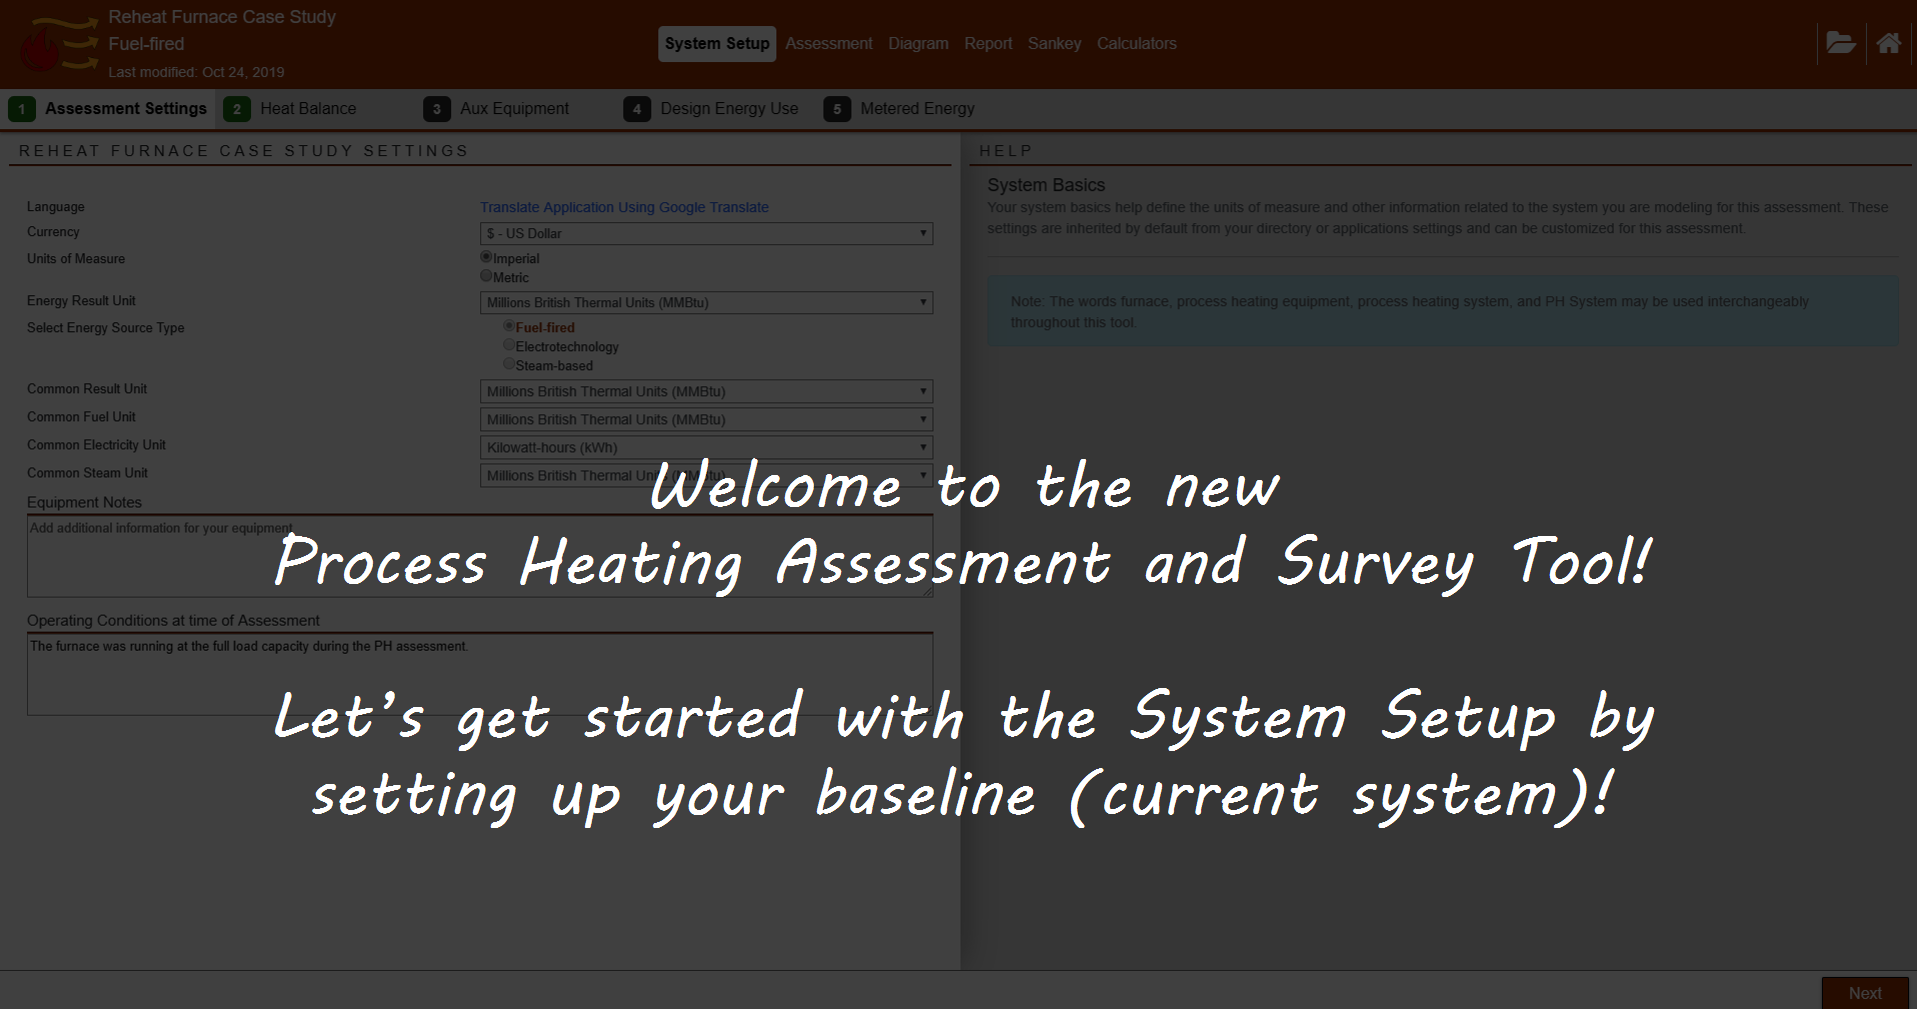
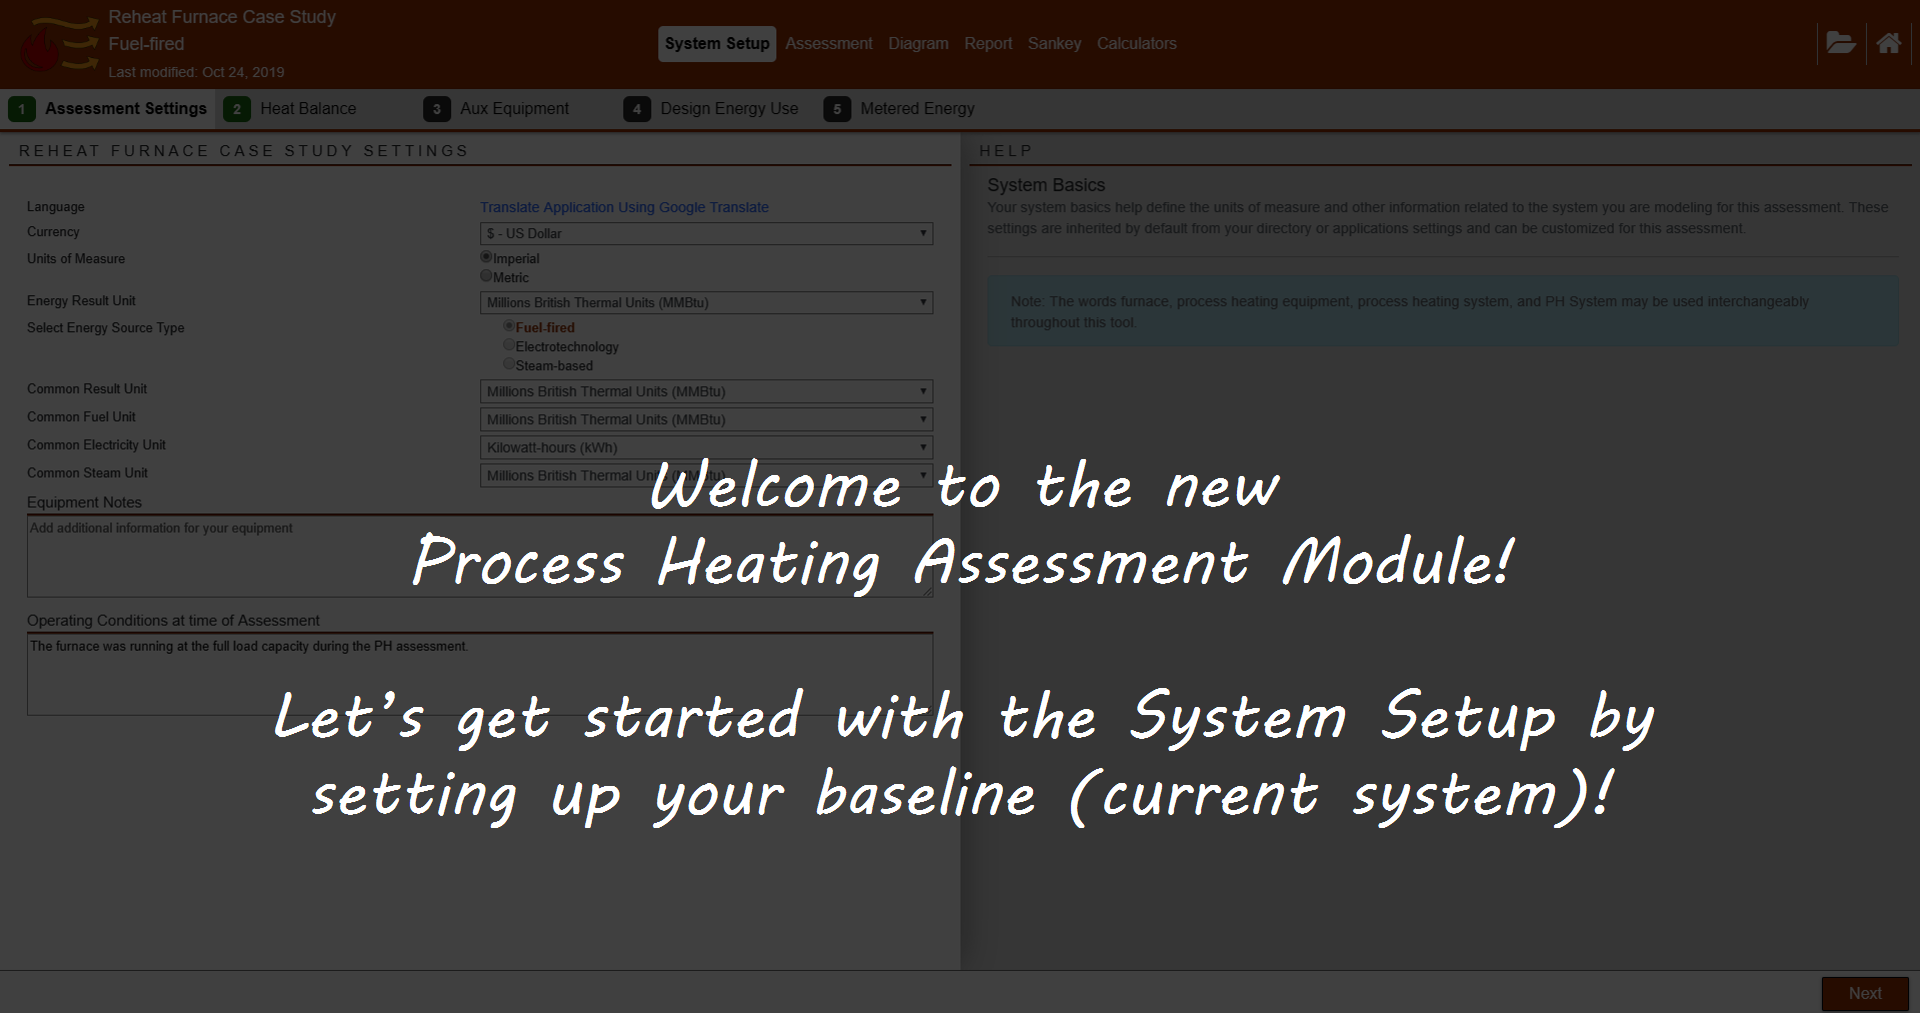
fix tutorials and phast report usage

diff --git a/src/app/phast/phast-report/energy-used/energy-used.component.html b/src/app/phast/phast-report/energy-used/energy-used.component.html
@@ -130,7 +130,7 @@
     <div class="col">
       <p>
         <small>
-          <b>Calculated By PHAST &mdash;</b> This method calculates total energy used by a furnace using bottom-up heat balance
+          <b>Calculated By PHA &mdash;</b> This method calculates total energy used by a furnace using bottom-up heat balance
           analysis. The heat balance analysis includes heat to load and various heat losses.
           <br>
           <b>Metered Energy Use &mdash;</b> This method calculates total energy used by a furnace by multiplying metered fuel
